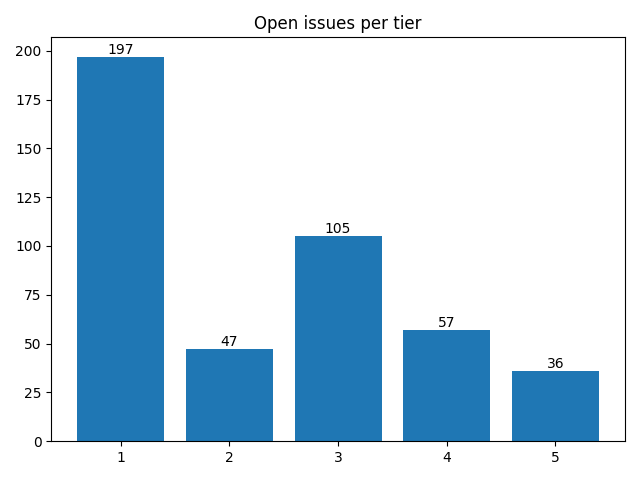
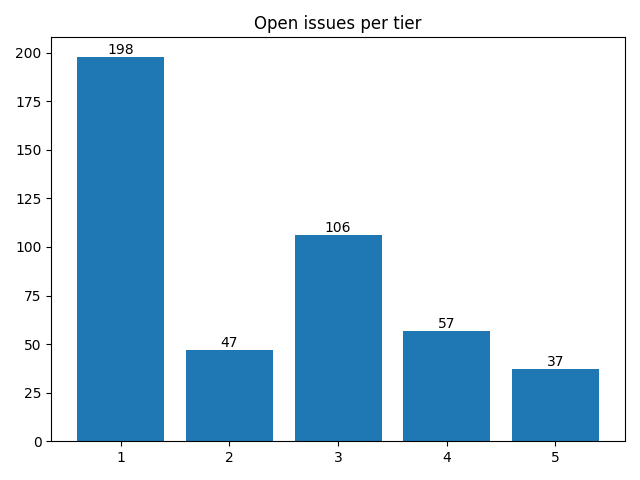
Apply automatic changes

diff --git a/docs/analytics.html b/docs/analytics.html
@@ -79,7 +79,7 @@ td .material-icons { display:inline-flex; vertical-align: top; font-size:1.1rem;
 						</tr>
 						<tr>
 							<td>Mar</td>
-							<td>1</td>
+							<td>4</td>
 							<td>0</td>
 						</tr>
 					</table>
@@ -112,7 +112,7 @@ td .material-icons { display:inline-flex; vertical-align: top; font-size:1.1rem;
 							<td>
 								<a href="http://github.com/notofonts/arabic/issues">arabic</a>
 							</td>
-							<td>16</td>
+							<td>17</td>
 						</tr>
 						<tr>
 							<td>
@@ -124,7 +124,7 @@ td .material-icons { display:inline-flex; vertical-align: top; font-size:1.1rem;
 							<td>
 								<a href="http://github.com/notofonts/math/issues">math</a>
 							</td>
-							<td>13</td>
+							<td>14</td>
 						</tr>
 						<tr>
 							<td>
@@ -177,13 +177,13 @@ td .material-icons { display:inline-flex; vertical-align: top; font-size:1.1rem;
 				<tr>
 					<td>2</td>
 					<td>
-						<a href="http://github.com/notofonts/adlam/issues">adlam</a>,  						<a href="http://github.com/notofonts/coptic/issues">coptic</a>,  						<a href="http://github.com/notofonts/cuneiform/issues">cuneiform</a>,  						<a href="http://github.com/notofonts/georgian/issues">georgian</a>,  						<a href="http://github.com/notofonts/khmer/issues">khmer</a>,  						<a href="http://github.com/notofonts/mandaic/issues">mandaic</a>,  						<a href="http://github.com/notofonts/music/issues">music</a>,  						<a href="http://github.com/notofonts/old-hungarian-ui/issues">old-hungarian-ui</a>,  						<a href="http://github.com/notofonts/tagalog/issues">tagalog</a>,  						<a href="http://github.com/notofonts/tamil/issues">tamil</a>,  						<a href="http://github.com/notofonts/tangut/issues">tangut</a>,  						<a href="http://github.com/notofonts/telugu/issues">telugu</a> 
+						<a href="http://github.com/notofonts/adlam/issues">adlam</a>,  						<a href="http://github.com/notofonts/coptic/issues">coptic</a>,  						<a href="http://github.com/notofonts/cuneiform/issues">cuneiform</a>,  						<a href="http://github.com/notofonts/georgian/issues">georgian</a>,  						<a href="http://github.com/notofonts/khmer/issues">khmer</a>,  						<a href="http://github.com/notofonts/mandaic/issues">mandaic</a>,  						<a href="http://github.com/notofonts/music/issues">music</a>,  						<a href="http://github.com/notofonts/old-hungarian-ui/issues">old-hungarian-ui</a>,  						<a href="http://github.com/notofonts/tagalog/issues">tagalog</a>,  						<a href="http://github.com/notofonts/tamil/issues">tamil</a>,  						<a href="http://github.com/notofonts/telugu/issues">telugu</a> 
 					</td>
 				</tr>
 				<tr>
 					<td>3</td>
 					<td>
-						<a href="http://github.com/notofonts/devanagari/issues">devanagari</a>,  						<a href="http://github.com/notofonts/inscriptional-parthian/issues">inscriptional-parthian</a>,  						<a href="http://github.com/notofonts/javanese/issues">javanese</a>,  						<a href="http://github.com/notofonts/kaithi/issues">kaithi</a>,  						<a href="http://github.com/notofonts/manichaean/issues">manichaean</a>,  						<a href="http://github.com/notofonts/siddham/issues">siddham</a>,  						<a href="http://github.com/notofonts/thai/issues">thai</a>,  						<a href="http://github.com/notofonts/tifinagh/issues">tifinagh</a>,  						<a href="http://github.com/notofonts/znamenny/issues">znamenny</a> 
+						<a href="http://github.com/notofonts/devanagari/issues">devanagari</a>,  						<a href="http://github.com/notofonts/inscriptional-parthian/issues">inscriptional-parthian</a>,  						<a href="http://github.com/notofonts/javanese/issues">javanese</a>,  						<a href="http://github.com/notofonts/kaithi/issues">kaithi</a>,  						<a href="http://github.com/notofonts/manichaean/issues">manichaean</a>,  						<a href="http://github.com/notofonts/siddham/issues">siddham</a>,  						<a href="http://github.com/notofonts/tangut/issues">tangut</a>,  						<a href="http://github.com/notofonts/thai/issues">thai</a>,  						<a href="http://github.com/notofonts/tifinagh/issues">tifinagh</a>,  						<a href="http://github.com/notofonts/znamenny/issues">znamenny</a> 
 					</td>
 				</tr>
 				<tr>
@@ -242,7 +242,7 @@ td .material-icons { display:inline-flex; vertical-align: top; font-size:1.1rem;
 							<td>
 									<a href="http://github.com/notofonts/latin-greek-cyrillic/issues">latin-greek-cyrillic</a>: 118, 
 
-									<a href="http://github.com/notofonts/arabic/issues">arabic</a>: 16, 
+									<a href="http://github.com/notofonts/arabic/issues">arabic</a>: 17, 
 
 									<a href="http://github.com/notofonts/hebrew/issues">hebrew</a>: 15, 
 
@@ -292,7 +292,7 @@ td .material-icons { display:inline-flex; vertical-align: top; font-size:1.1rem;
 						<tr>
 							<td>3</td>
 							<td>
-									<a href="http://github.com/notofonts/math/issues">math</a>: 13, 
+									<a href="http://github.com/notofonts/math/issues">math</a>: 14, 
 
 									<a href="http://github.com/notofonts/symbols/issues">symbols</a>: 13, 
 
@@ -416,7 +416,7 @@ td .material-icons { display:inline-flex; vertical-align: top; font-size:1.1rem;
 
 									<a href="http://github.com/notofonts/inscriptional-parthian/issues">inscriptional-parthian</a>: 3, 
 
-									<a href="http://github.com/notofonts/tangut/issues">tangut</a>: 2, 
+									<a href="http://github.com/notofonts/tangut/issues">tangut</a>: 3, 
 
 									<a href="http://github.com/notofonts/chorasmian/issues">chorasmian</a>: 1, 
 
